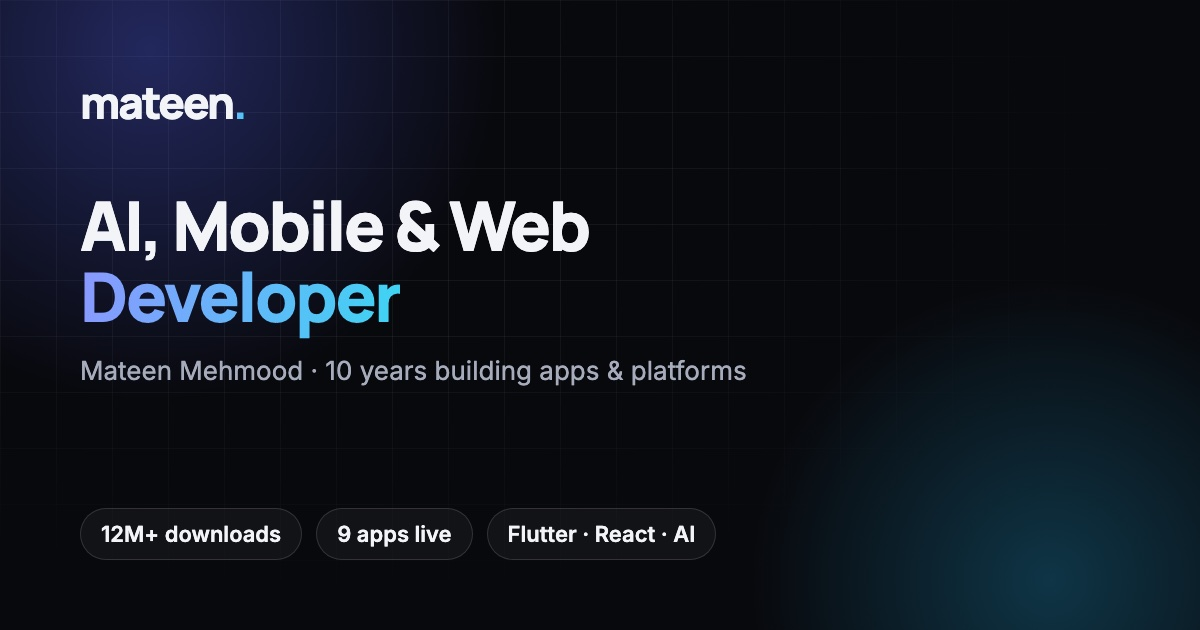
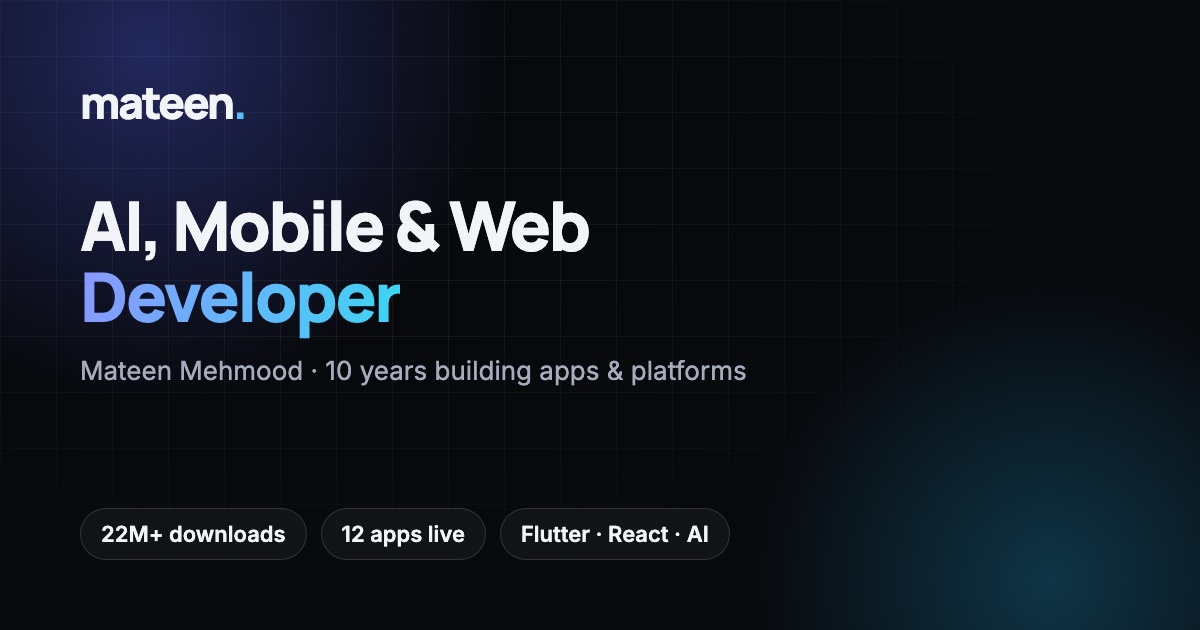
Add Bodyo, Mobily and PrepPace case studies; update totals and order

Changed region(s): [[0.2775, 0.8143, 0.5858, 0.8746], [0.0925, 0.8143, 0.2467, 0.8746]]

diff --git a/src/data/projects.ts b/src/data/projects.ts
@@ -109,7 +109,7 @@ export const projects: Project[] = [
     },
     featured: true,
     published: true,
-    order: 9,
+    order: 11,
   },
   {
     slug: 'dream',
@@ -177,7 +177,7 @@ export const projects: Project[] = [
     },
     featured: true,
     published: true,
-    order: 8,
+    order: 10,
   },
   {
     slug: 'braiding-nairobi',
@@ -237,7 +237,7 @@ export const projects: Project[] = [
     },
     featured: false,
     published: true,
-    order: 5,
+    order: 7,
   },
   {
     slug: 'talli',
@@ -493,7 +493,7 @@ export const projects: Project[] = [
     },
     featured: true,
     published: true,
-    order: 7,
+    order: 9,
   },
   {
     slug: 'etgahwa',
@@ -618,6 +618,194 @@ export const projects: Project[] = [
     },
     featured: false,
     published: true,
+    order: 8,
+  },
+  {
+    slug: 'bodyo',
+    title: 'Bodyo',
+    subtitle: 'Telehealth and wellness companion app for Bodyo’s check-up and teleconsultation kiosks.',
+    summary:
+      'Companion app for a health check-up and teleconsultation kiosk: session history, a personal health profile, connections with professionals and rewards that keep users engaged.',
+    category: 'Mobile Apps',
+    platforms: ['iOS', 'Android'],
+    // TODO: add the stack you used
+    technologies: [],
+    icon: '/images/projects/bodyo/icon.jpg',
+    coverImage: '/images/projects/bodyo/cover.jpg',
+    coverAlt: 'Bodyo app screens: session history, health profile and settings',
+    client: 'Matrix SAS (Bodyo)',
+    overview:
+      'Bodyo builds health kiosks for check-ups and teleconsultations. The Bodyo app extends that experience to the user’s phone — a daily health and wellness companion linked to their kiosk sessions.\n\nUsers review their check-up history, keep a personal health profile, connect with health and wellness professionals and their community, and stay motivated through incentives and rewards on their journey to better health.',
+    // TODO: describe your own contribution
+    myRole: [],
+    features: [
+      {
+        title: 'Kiosk-linked check-ups',
+        description: 'Results from Bodyo health kiosk sessions are available in the app after each check-up.',
+      },
+      {
+        title: 'Session history',
+        description: 'A dated history of every check-up and teleconsultation session in one list.',
+      },
+      {
+        title: 'Personal health profile',
+        description: 'Weight, height, age and blood type in a customised profile that feeds into each session.',
+      },
+      {
+        title: 'Telehealth & professionals',
+        description: 'Connect with health and wellness professionals for guidance between kiosk visits.',
+      },
+      {
+        title: 'Community & rewards',
+        description: 'Incentives and rewards that keep users motivated on their wellness journey.',
+      },
+      {
+        title: 'Preferences & dark mode',
+        description: 'Account settings, units of measure, help and a dark mode for comfortable use.',
+      },
+    ],
+    gallery: [
+      { src: '/images/projects/bodyo/screen-1.jpg', alt: 'Bodyo — unleash the power of telehealth', orientation: 'portrait', frame: false },
+      { src: '/images/projects/bodyo/screen-2.jpg', alt: 'Bodyo home screen', orientation: 'portrait', frame: false },
+      { src: '/images/projects/bodyo/screen-3.jpg', alt: 'Session history of kiosk check-ups', orientation: 'portrait', frame: false },
+      { src: '/images/projects/bodyo/screen-4.jpg', alt: 'Settings with preferences and dark mode', orientation: 'portrait', frame: false },
+      { src: '/images/projects/bodyo/screen-5.jpg', alt: 'Customised health profile', orientation: 'portrait', frame: false },
+    ],
+    results: ['Live on iOS and Android since 2023'],
+    links: {
+      appStore: 'https://apps.apple.com/us/app/bodyo/id1643950621',
+      playStore: 'https://play.google.com/store/apps/details?id=com.flutter.bodyo',
+      website: 'https://bodyo.com/',
+    },
+    featured: false,
+    published: true,
+    order: 5,
+  },
+  {
+    slug: 'mobily',
+    title: 'Mobily',
+    subtitle: 'The official app of Mobily — one of Saudi Arabia’s largest telecom operators — used by millions.',
+    summary:
+      'Telecom super-app for Mobily customers: manage every line, pay bills and recharge, subscribe to plans and add-ons, shop devices and redeem Neqaty rewards.',
+    category: 'Mobile Apps',
+    platforms: ['iOS', 'Android'],
+    // TODO: add the stack you used
+    technologies: [],
+    icon: '/images/projects/mobily/icon.jpg',
+    coverImage: '/images/projects/mobily/cover.jpg',
+    coverAlt: 'Mobily app screens: mobile plans, account dashboard and Neqaty rewards',
+    client: 'Etihad Etisalat (Mobily)',
+    overview:
+      'The Mobily app puts all of a customer’s Mobily products and services in one place. It streamlines account management with a modern, clean interface and fast access to bills, balances and usage — for prepaid, postpaid and data customers alike.\n\nBeyond account management, it is a full commerce and loyalty platform: customers buy new lines, SIMs, eSIMs, fibre and the latest smartphones for delivery, subscribe to packages and add-ons in one tap, and earn and redeem Neqaty loyalty points with partner brands.',
+    // TODO: describe your own contribution
+    myRole: [],
+    features: [
+      {
+        title: 'Plans & packages',
+        description: 'Compare postpaid, prepaid and data plans and subscribe or unsubscribe with one tap.',
+      },
+      {
+        title: 'Bills, usage & recharge',
+        description: 'See bills, unbilled amounts and remaining data and minutes, then pay or recharge by card.',
+      },
+      {
+        title: 'Shop on demand',
+        description: 'Order the latest smartphones, new lines, SIMs, eSIMs and fibre for delivery.',
+      },
+      {
+        title: 'All lines in one place',
+        description: 'Manage every number under one account — subscriptions, credit limits and line services.',
+      },
+      {
+        title: 'Neqaty rewards',
+        description: 'Earn loyalty points and redeem them for voice, bills and partner offers.',
+      },
+      {
+        title: 'Human support',
+        description: 'Reach real support agents through social and in-app channels.',
+      },
+    ],
+    gallery: [
+      { src: '/images/projects/mobily/screen-1.jpg', alt: 'Everything Mobily, all in one place', orientation: 'portrait', frame: false },
+      { src: '/images/projects/mobily/screen-2.jpg', alt: 'Mobily app splash on iPhone', orientation: 'portrait', frame: false },
+      { src: '/images/projects/mobily/screen-3.jpg', alt: 'Mobile plans with postpaid, prepaid and data options', orientation: 'portrait', frame: false },
+      { src: '/images/projects/mobily/screen-4.jpg', alt: 'Account dashboard with bill, data and minutes', orientation: 'portrait', frame: false },
+      { src: '/images/projects/mobily/screen-5.jpg', alt: 'Shop the latest smartphones and services', orientation: 'portrait', frame: false },
+      { src: '/images/projects/mobily/screen-6.jpg', alt: 'Line management and new line purchase', orientation: 'portrait', frame: false },
+      { src: '/images/projects/mobily/screen-7.jpg', alt: 'Neqaty loyalty points and partner rewards', orientation: 'portrait', frame: false },
+    ],
+    results: [
+      '10M+ downloads on Google Play',
+      '4.8★ from 50,000+ ratings on the App Store',
+      '284K+ reviews on Google Play',
+      'Continuously updated with frequent releases',
+    ],
+    links: {
+      appStore: 'https://apps.apple.com/us/app/mobily-%D9%85%D9%88%D8%A8%D8%A7%D9%8A%D9%84%D9%8A/id375539359',
+      playStore: 'https://play.google.com/store/apps/details?id=com.mobily.activity',
+      website: 'https://www.mobily.com.sa',
+    },
+    featured: true,
+    published: true,
     order: 6,
+  },
+  {
+    slug: 'preppace',
+    title: 'PrepPace: Ace Your Interview',
+    subtitle: 'A job-interview preparation app — question banks, mock interviews and expert tips in your pocket.',
+    summary:
+      'Interview-prep app with role-specific question banks, mock interviews with instant feedback, industry courses, study plans and offline access.',
+    category: 'Mobile Apps',
+    platforms: ['Android'],
+    // TODO: add the stack you used
+    technologies: [],
+    icon: '/images/projects/preppace/icon.jpg',
+    coverImage: '/images/projects/preppace/cover.jpg',
+    coverAlt: 'PrepPace app screens: courses, practice questions and mock answers',
+    client: 'DigiOrbitz',
+    overview:
+      'PrepPace helps job seekers walk into interviews with confidence — whether they are freshers or experienced professionals. It brings together practice questions tailored to role and industry, expert tips on what employers look for, and realistic mock interviews.\n\nLearners follow topics and courses on the latest industry trends, take quizzes with explanations, track their progress with personalised study plans, and keep studying offline.',
+    // TODO: describe your own contribution
+    myRole: [],
+    features: [
+      {
+        title: 'Role-specific question banks',
+        description: 'Practice questions for freshers and experienced professionals across many industries.',
+      },
+      {
+        title: 'Mock interviews & feedback',
+        description: 'Rehearse realistic scenarios and get instant, actionable feedback on every answer.',
+      },
+      {
+        title: 'Quizzes with explanations',
+        description: 'Multiple-choice practice with right/wrong highlighting and a clear explanation for each answer.',
+      },
+      {
+        title: 'Courses & industry trends',
+        description: 'Topic-based courses and recent-quiz tracking from a personalised home screen.',
+      },
+      {
+        title: 'Personalised study plans',
+        description: 'Set goals, track progress and make sure every key topic is covered before the interview.',
+      },
+      {
+        title: 'Offline access',
+        description: 'Download questions and guides to keep preparing without an internet connection.',
+      },
+    ],
+    gallery: [
+      { src: '/images/projects/preppace/screen-1.jpg', alt: 'Welcome to PrepPace', orientation: 'portrait', frame: false },
+      { src: '/images/projects/preppace/screen-2.jpg', alt: 'Learn with experts anytime, anywhere', orientation: 'portrait', frame: false },
+      { src: '/images/projects/preppace/screen-3.jpg', alt: 'Home with topics, top courses and recent quizzes', orientation: 'portrait', frame: false },
+      { src: '/images/projects/preppace/screen-4.jpg', alt: 'Mock interview questions and answers', orientation: 'portrait', frame: false },
+      { src: '/images/projects/preppace/screen-5.jpg', alt: 'Practice question with answer explanation', orientation: 'portrait', frame: false },
+    ],
+    results: ['Published on Google Play'],
+    links: {
+      playStore: 'https://play.google.com/store/apps/details?id=com.preppace.preppace.preppace',
+    },
+    featured: false,
+    published: true,
+    order: 12,
   },
 ];

diff --git a/src/data/profile.ts b/src/data/profile.ts
@@ -88,8 +88,8 @@ export const profile: Profile = {
     // Verified from the App Store / Google Play listings of the apps in projects.ts.
     highlights: [
       { value: '10 yrs', label: 'Building software' },
-      { value: '12M+', label: 'Downloads across apps I’ve worked on' },
-      { value: '5', label: 'Countries — KSA, Pakistan, Sudan, Kenya, USA' },
+      { value: '22M+', label: 'Downloads across apps I’ve worked on' },
+      { value: '6', label: 'Countries — KSA, Pakistan, Sudan, Kenya, USA, France' },
     ],
     journey: [
       "Over the past ten years I've built software across the whole product: native Android and cross-platform Flutter apps for iOS and Android, web platforms, and the backend services that power them with Node.js, Go and Firebase.",

diff --git a/src/pages/About.tsx b/src/pages/About.tsx
@@ -174,7 +174,7 @@ function ProfileCard() {
         {apps.length > 0 && (
           <div className="mt-6 border-t border-border pt-5">
             <p className="text-xs font-semibold tracking-wider text-fg-subtle uppercase">Apps I’ve worked on</p>
-            <ul className="mt-3 grid gap-1.5" style={{ gridTemplateColumns: `repeat(${Math.min(apps.length, 9)}, minmax(0, 1fr))` }}>
+            <ul className="mt-3 grid gap-1.5" style={{ gridTemplateColumns: `repeat(${apps.length > 9 ? Math.ceil(apps.length / 2) : apps.length}, minmax(0, 1fr))` }}>
               {apps.map((p) => (
                 <li key={p.slug}>
                   <Link
